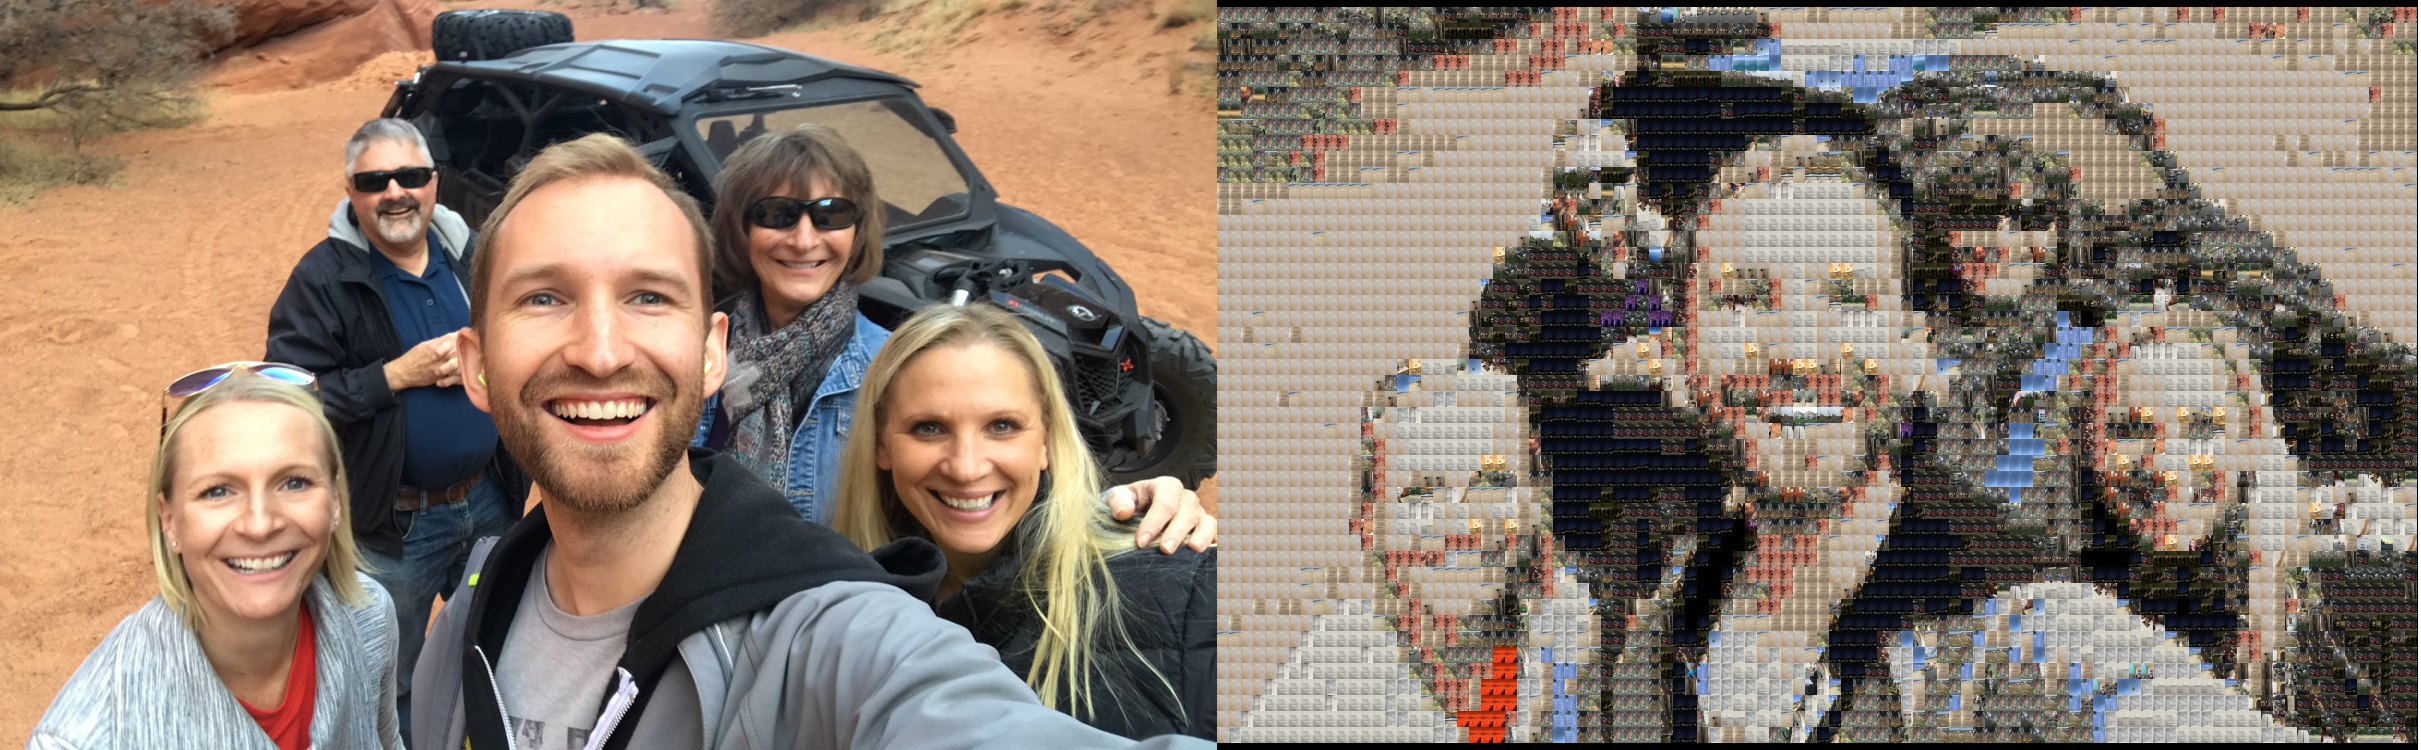
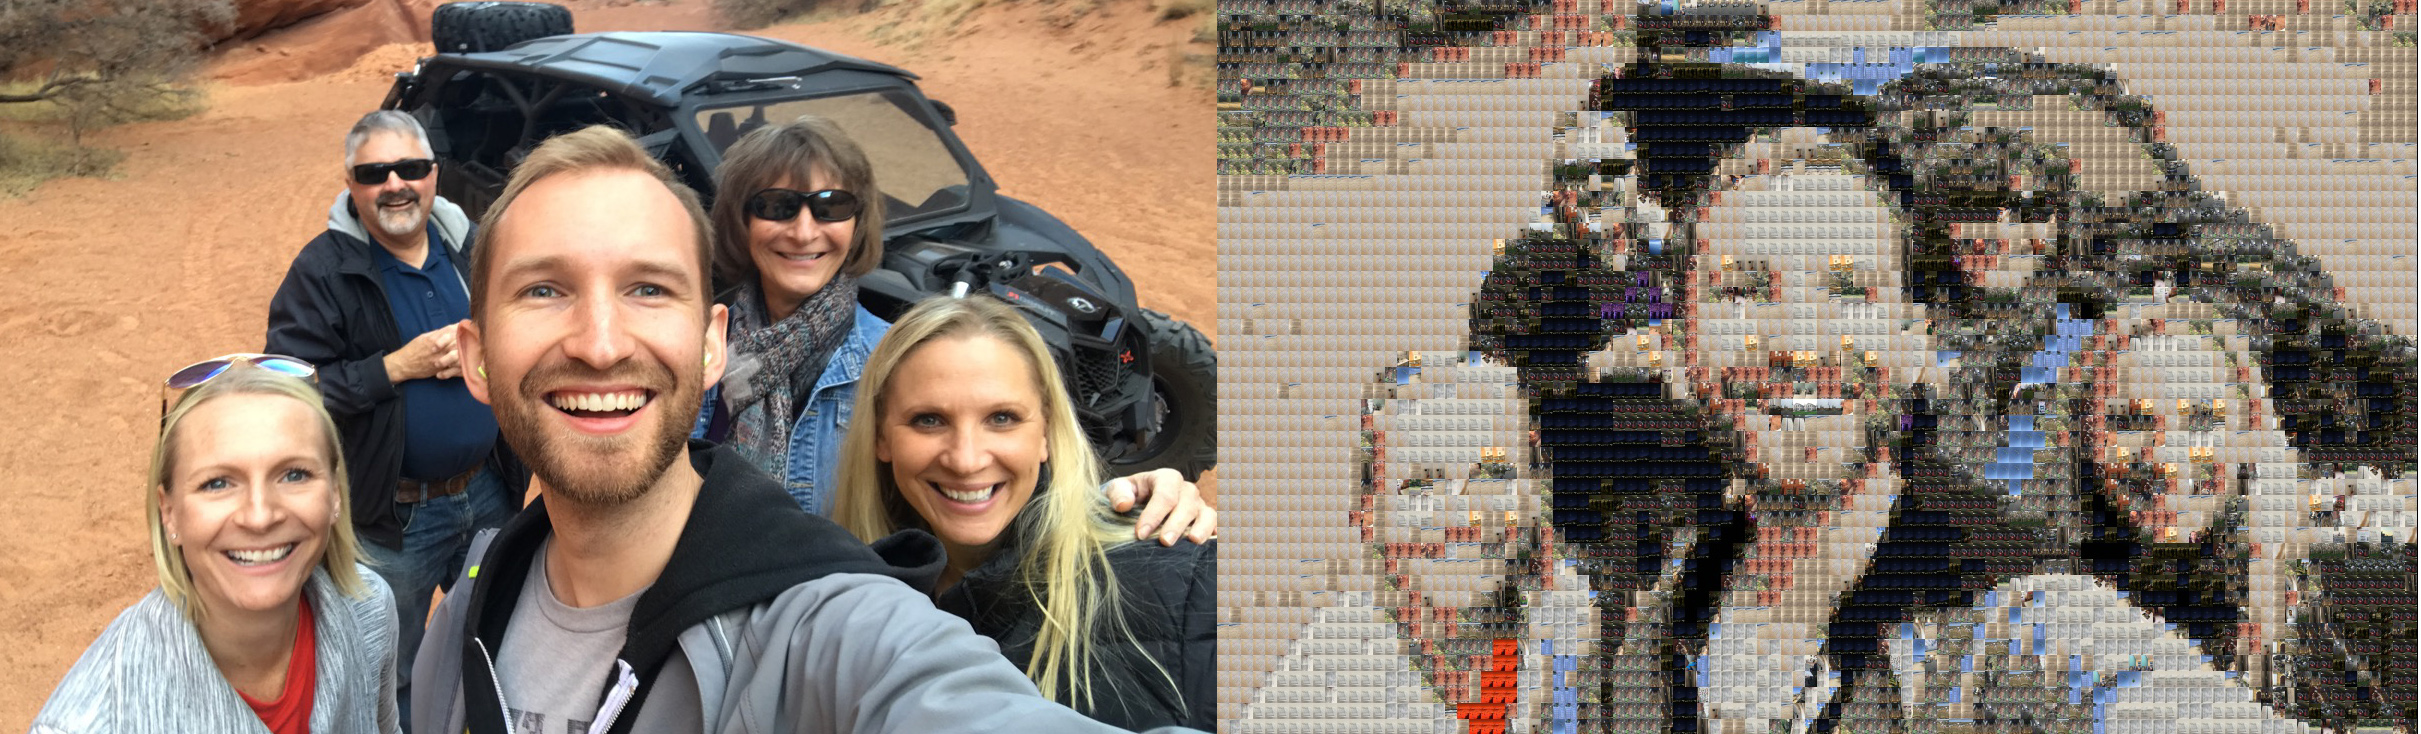
added

diff --git a/README.md b/README.md
@@ -3,7 +3,7 @@
 Creating photomosiac images & videos. 
 
 <p align="center">
-    <img src="media/readme/side-by-side.jpg" height="500">
+    <img src="media/readme/side-by-side.jpg">
 </p>
 
 ## What does that mean?
